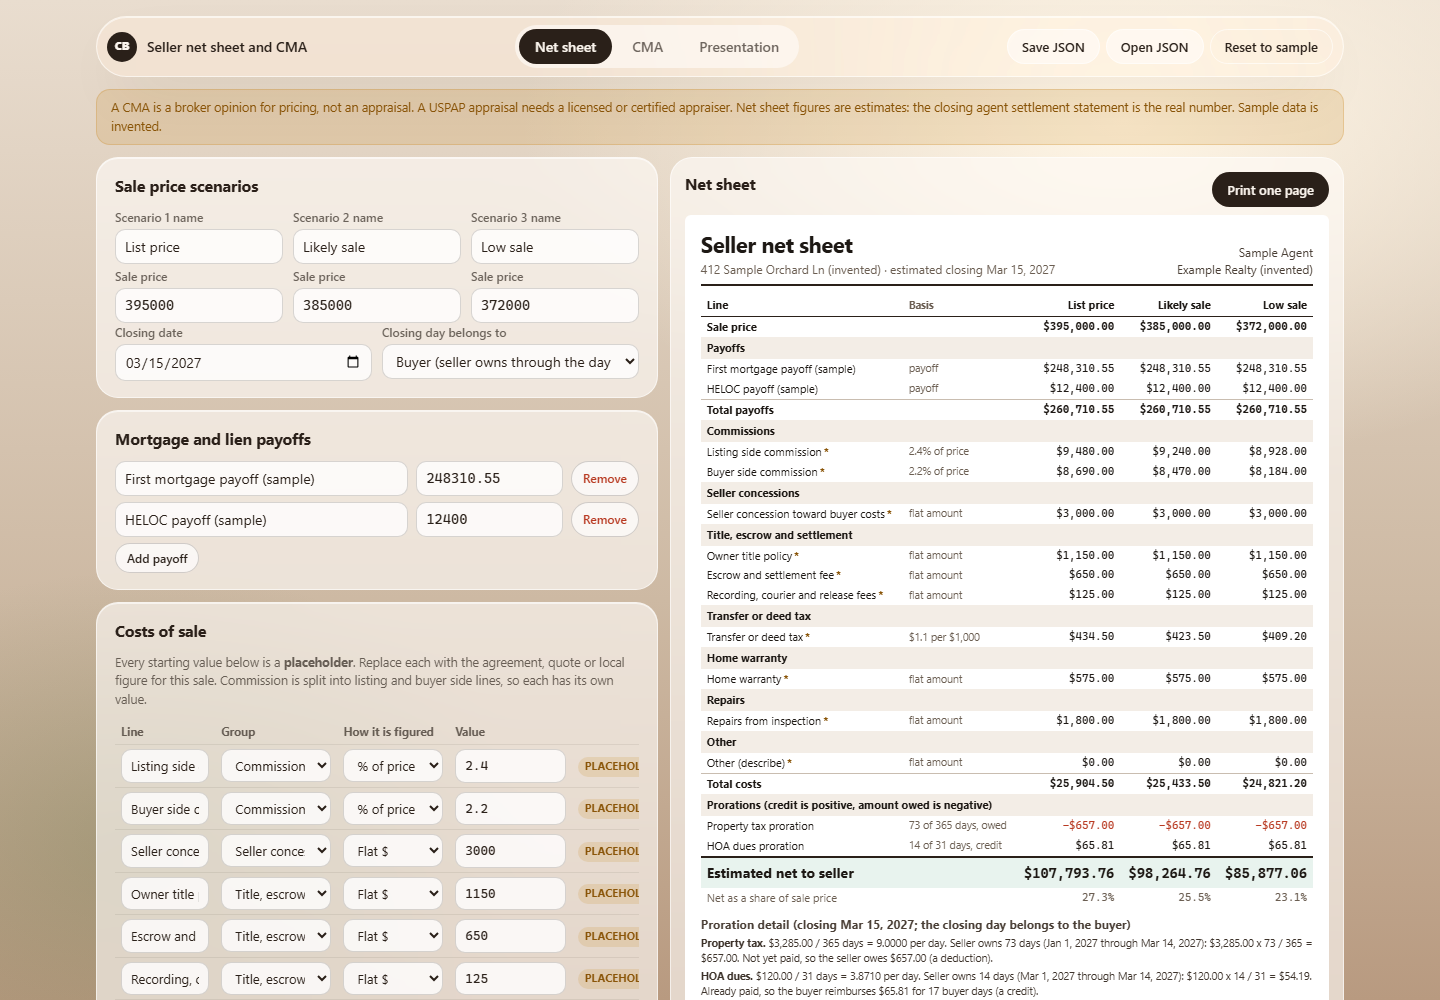
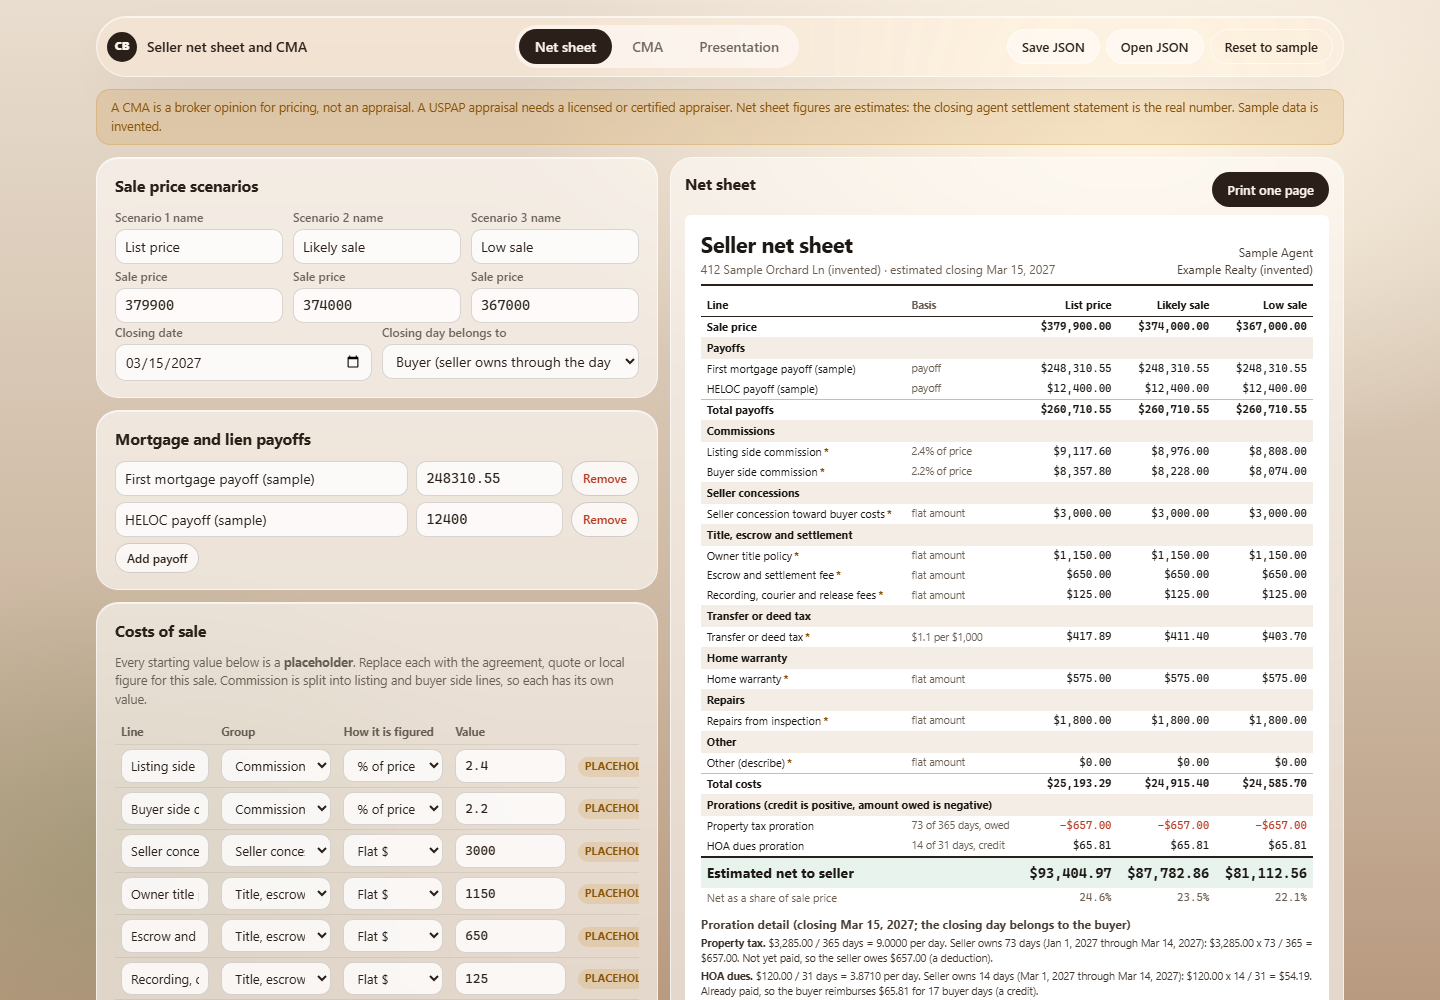
Align sample net sheet scenarios with the sample CMA range; fix 375px overflow
Scenarios 379,900 / 374,000 / 367,000. Likely-sale hand total recomputed (net 87,782.86). The net tab no longer scrolls sideways on a phone.

diff --git a/tests/netsheet.test.ts b/tests/netsheet.test.ts
@@ -69,12 +69,15 @@ describe('net sheet, hand-checked', () => {
     const seller = computeNet({ ...net, closingDayOwner: 'seller' });
     expect(seller.prorations[0]!.result.sellerDays).toBe(192);
   });
-  it('the invented sample, likely sale, by hand', () => {
-    // Costs at 385,000: 9,240 + 8,470 + 3,000 + 1,150 + 650 + 125 + 423.50 + 575 + 1,800 + 0 = 25,433.50
+  it('the invented sample, likely sale $374,000, by hand', () => {
+    // Percent lines at 374,000: 2.4% = 8,976.00; 2.2% = 8,228.00; transfer $1.10 per $1,000 = 411.40
+    // Flat lines: 3,000 + 1,150 + 650 + 125 + 575 + 1,800 + 0 = 7,300
+    // Costs = 8,976 + 8,228 + 411.40 + 7,300 = 24,915.40
     // Prorations: tax unpaid 73 days x $9 = -657.00, HOA paid, 14 of 31 days seller = 54.19, buyer credit 65.81, total -591.19
+    // Net = 374,000 - 260,710.55 (payoffs) - 24,915.40 - 591.19 = 87,782.86
     const s = computeNet(sampleState().net).scenarios[1]!;
-    expect(s.costTotal).toBe(25433.5);
+    expect(s.costTotal).toBe(24915.4);
     expect(s.prorationNet).toBe(-591.19);
-    expect(s.net).toBe(98264.76);
+    expect(s.net).toBe(87782.86);
   });
 });

diff --git a/src/style.css b/src/style.css
@@ -114,7 +114,7 @@ table.grid th.l, table.grid td.l { text-align: left } table.grid td.adjl { font-
 
 #print-root { display: none }
 @media (max-width: 900px) {
-  .cols { grid-template-columns: 1fr } .colout { position: static; max-height: none }
+  .cols { grid-template-columns: minmax(0, 1fr) } .colout { position: static; max-height: none }
   .grid3, .grid4 { grid-template-columns: repeat(2, minmax(0, 1fr)) } .charts { grid-template-columns: 1fr } .tiles { grid-template-columns: repeat(2, minmax(0, 1fr)) }
   .bar { border-radius: 24px } .tabs { margin: 0 }
 }
@@ -131,3 +131,4 @@ table.grid th.l, table.grid td.l { text-align: left } table.grid td.adjl { font-
   .pfoot { left: 0; right: 0; bottom: 0 }
   .sheet-page:not(:has(.pfoot)) { min-height: 0; height: auto }
 }
+.cols > * { min-width: 0 }

diff --git a/tests/state.test.ts b/tests/state.test.ts
@@ -5,7 +5,7 @@ describe('save and load', () => {
   it('round trips through JSON', () => {
     const s = sampleState();
     const back = normalizeState(JSON.parse(JSON.stringify(s)));
-    expect('state' in back && back.state.net.scenarios[1]?.price).toBe(385000);
+    expect('state' in back && back.state.net.scenarios[1]?.price).toBe(374000);
     expect('state' in back && back.state.cma.comps).toHaveLength(14);
   });
   it('rejects wrong shapes with a plain message', () => {

diff --git a/src/state.ts b/src/state.ts
@@ -34,9 +34,9 @@ export function sampleState(): State {
     },
     net: {
       scenarios: [
-        { name: 'List price', price: 395000 },
-        { name: 'Likely sale', price: 385000 },
-        { name: 'Low sale', price: 372000 },
+        { name: 'List price', price: 379900 },
+        { name: 'Likely sale', price: 374000 },
+        { name: 'Low sale', price: 367000 },
       ],
       closingDate: '2027-03-15',
       closingDayOwner: 'buyer',
